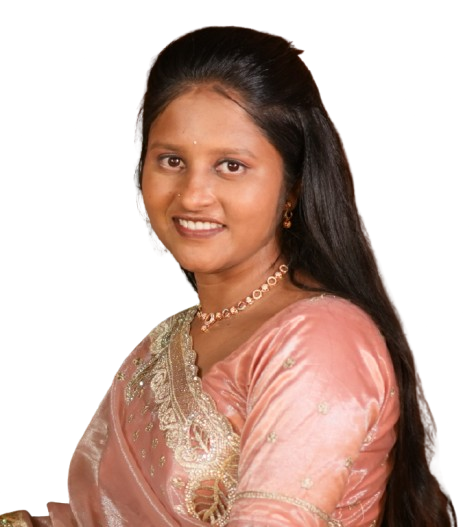
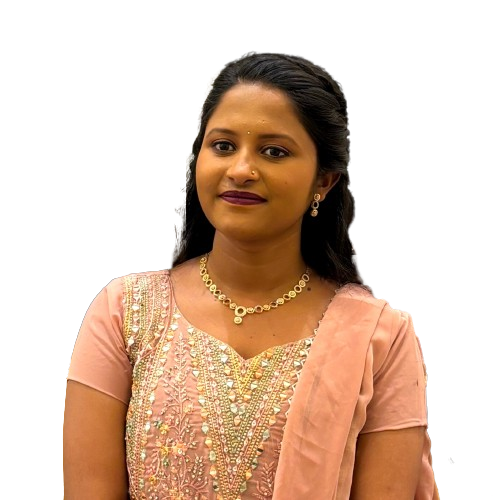
update 5th

diff --git a/index.html b/index.html
@@ -185,7 +185,8 @@
   /* ─── HERO ─── */
   #hero {
     min-height: 100vh;
-    background: linear-gradient(180deg, #2e1f15 0%, #4a3526 40%, #faf6f0 100%);
+    /* reduced white area at the bottom (start of ivory moved up) */
+    background: linear-gradient(180deg, #2e1f15 0%, #4a3526 55%, #faf6f0 90%);
     position: relative; display: flex; flex-direction: column;
     align-items: center; justify-content: center;
     overflow: hidden; text-align: center;
@@ -225,7 +226,9 @@
   .hero-divider-line { flex: 1; height: 1px; background: var(--gold); opacity: 0.4; }
   .hero-divider-diamond { width: 8px; height: 8px; background: var(--gold2); transform: rotate(45deg); }
   .hero-date { font-family: 'Cormorant Garamond', serif; font-size: 1.2rem; color: var(--gold2); letter-spacing: 0.12em; font-weight: 300; }
-  .hero-location { font-size: 0.7rem; letter-spacing: 0.2em; text-transform: uppercase; color: rgba(255,255,255,0.5); margin-top: 8px; }
+  /* Make date and location darker and slightly bolder for readability on theme */
+  .hero-date { font-family: 'Cormorant Garamond', serif; font-size: 1.2rem; color: var(--text); letter-spacing: 0.12em; font-weight: 500; }
+  .hero-location { font-size: 0.7rem; letter-spacing: 0.2em; text-transform: uppercase; color: var(--text); font-weight: 500; margin-top: 8px; }
 
   .scroll-indicator {
     position: absolute; bottom: 36px; left: 50%; transform: translateX(-50%);
@@ -693,8 +696,11 @@
 </main>
 
 <script>
-  /* ── ENVELOPE OPEN ── */
+  /* ── ENVELOPE OPEN + AUTO-SCROLL ── */
   var rsvpSelection = '';
+  var autoScrollActive = false;
+  var autoScrollAnimId = null;
+  var autoScrollLastTime = 0;
 
   function openEnvelope() {
     var wrap = document.getElementById('envWrap');
@@ -706,8 +712,60 @@
       var site = document.getElementById('main-site');
       site.classList.add('visible');
       checkReveal();
+      // start a slow auto-scroll to the next section (user can override by interacting)
+      setTimeout(function() { startAutoScrollTo('#save-date'); }, 400);
     }, 1200);
   }
+
+  // Start auto-scroll toward an element selector
+  function startAutoScrollTo(selector) {
+    var targetEl = document.querySelector(selector);
+    if (!targetEl) return;
+    var targetY = targetEl.getBoundingClientRect().top + window.scrollY;
+    startAutoScroll(targetY);
+  }
+
+  // Smooth, slow auto-scroll implemented with requestAnimationFrame.
+  // Stops when the target is reached or when the user interacts.
+  function startAutoScroll(targetY) {
+    cancelAutoScroll();
+    autoScrollActive = true;
+    autoScrollLastTime = performance.now();
+    var speedPxPerSec = 100; // increased slightly for faster auto-scroll
+
+    function step(now) {
+      if (!autoScrollActive) return;
+      var elapsed = now - autoScrollLastTime;
+      autoScrollLastTime = now;
+      var delta = (speedPxPerSec * elapsed) / 1000;
+      var currentY = window.scrollY;
+      var dir = targetY > currentY ? 1 : -1;
+      var nextY = currentY + dir * delta;
+
+      // clamp and finish
+      if ((dir === 1 && nextY >= targetY) || (dir === -1 && nextY <= targetY)) {
+        window.scrollTo({ top: targetY, behavior: 'auto' });
+        cancelAutoScroll();
+        return;
+      } else {
+        window.scrollTo({ top: nextY, behavior: 'auto' });
+      }
+
+      autoScrollAnimId = requestAnimationFrame(step);
+    }
+
+    autoScrollAnimId = requestAnimationFrame(step);
+  }
+
+  function cancelAutoScroll() {
+    if (autoScrollAnimId) { cancelAnimationFrame(autoScrollAnimId); autoScrollAnimId = null; }
+    autoScrollActive = false;
+  }
+
+  // If the user interacts (wheel, touch, mouse, key), cancel auto-scroll to allow manual control
+  ['wheel', 'touchstart', 'touchmove', 'keydown', 'mousedown'].forEach(function(evt) {
+    window.addEventListener(evt, function() { if (autoScrollActive) cancelAutoScroll(); }, { passive: true });
+  });
 
   /* ── SCROLL REVEAL ── */
   function checkReveal() {
@@ -748,17 +806,9 @@
   updateCountdown();
   setInterval(updateCountdown, 1000);
 
-  /* ── RSVP ── */
-  function selectRsvp(el, val) {
-    rsvpSelection = val;
-    document.querySelectorAll('.rsvp-option').forEach(function(o){ o.classList.remove('selected'); });
-    el.classList.add('selected');
-  }
 
-  function submitRsvp() {
-    document.getElementById('rsvpForm').style.display = 'none';
-    document.getElementById('rsvpSuccess').style.display = 'block';
-  }
+
+ 
 </script>
 </body>
 </html>
